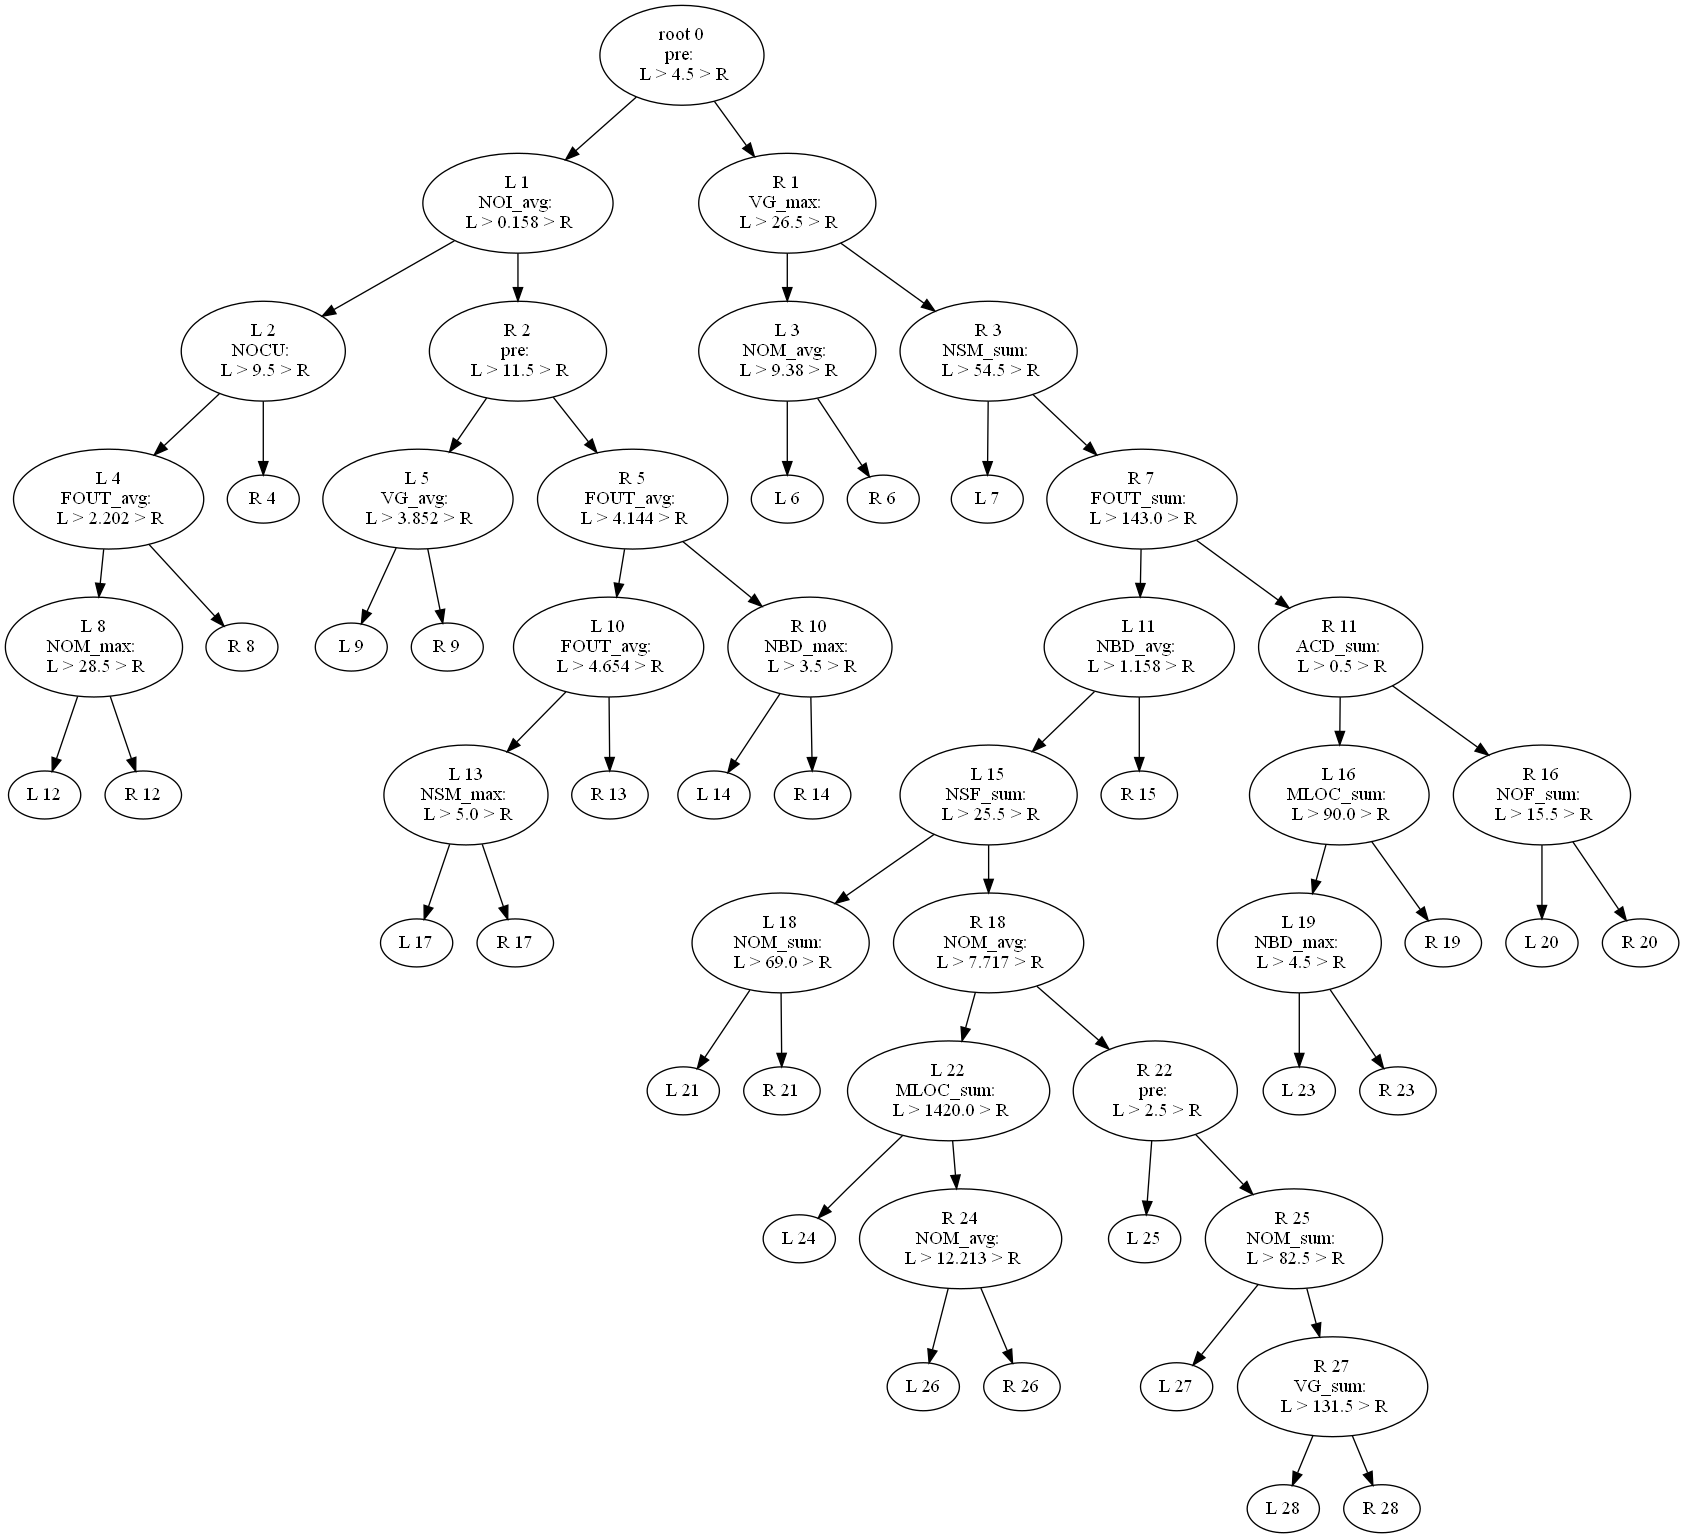
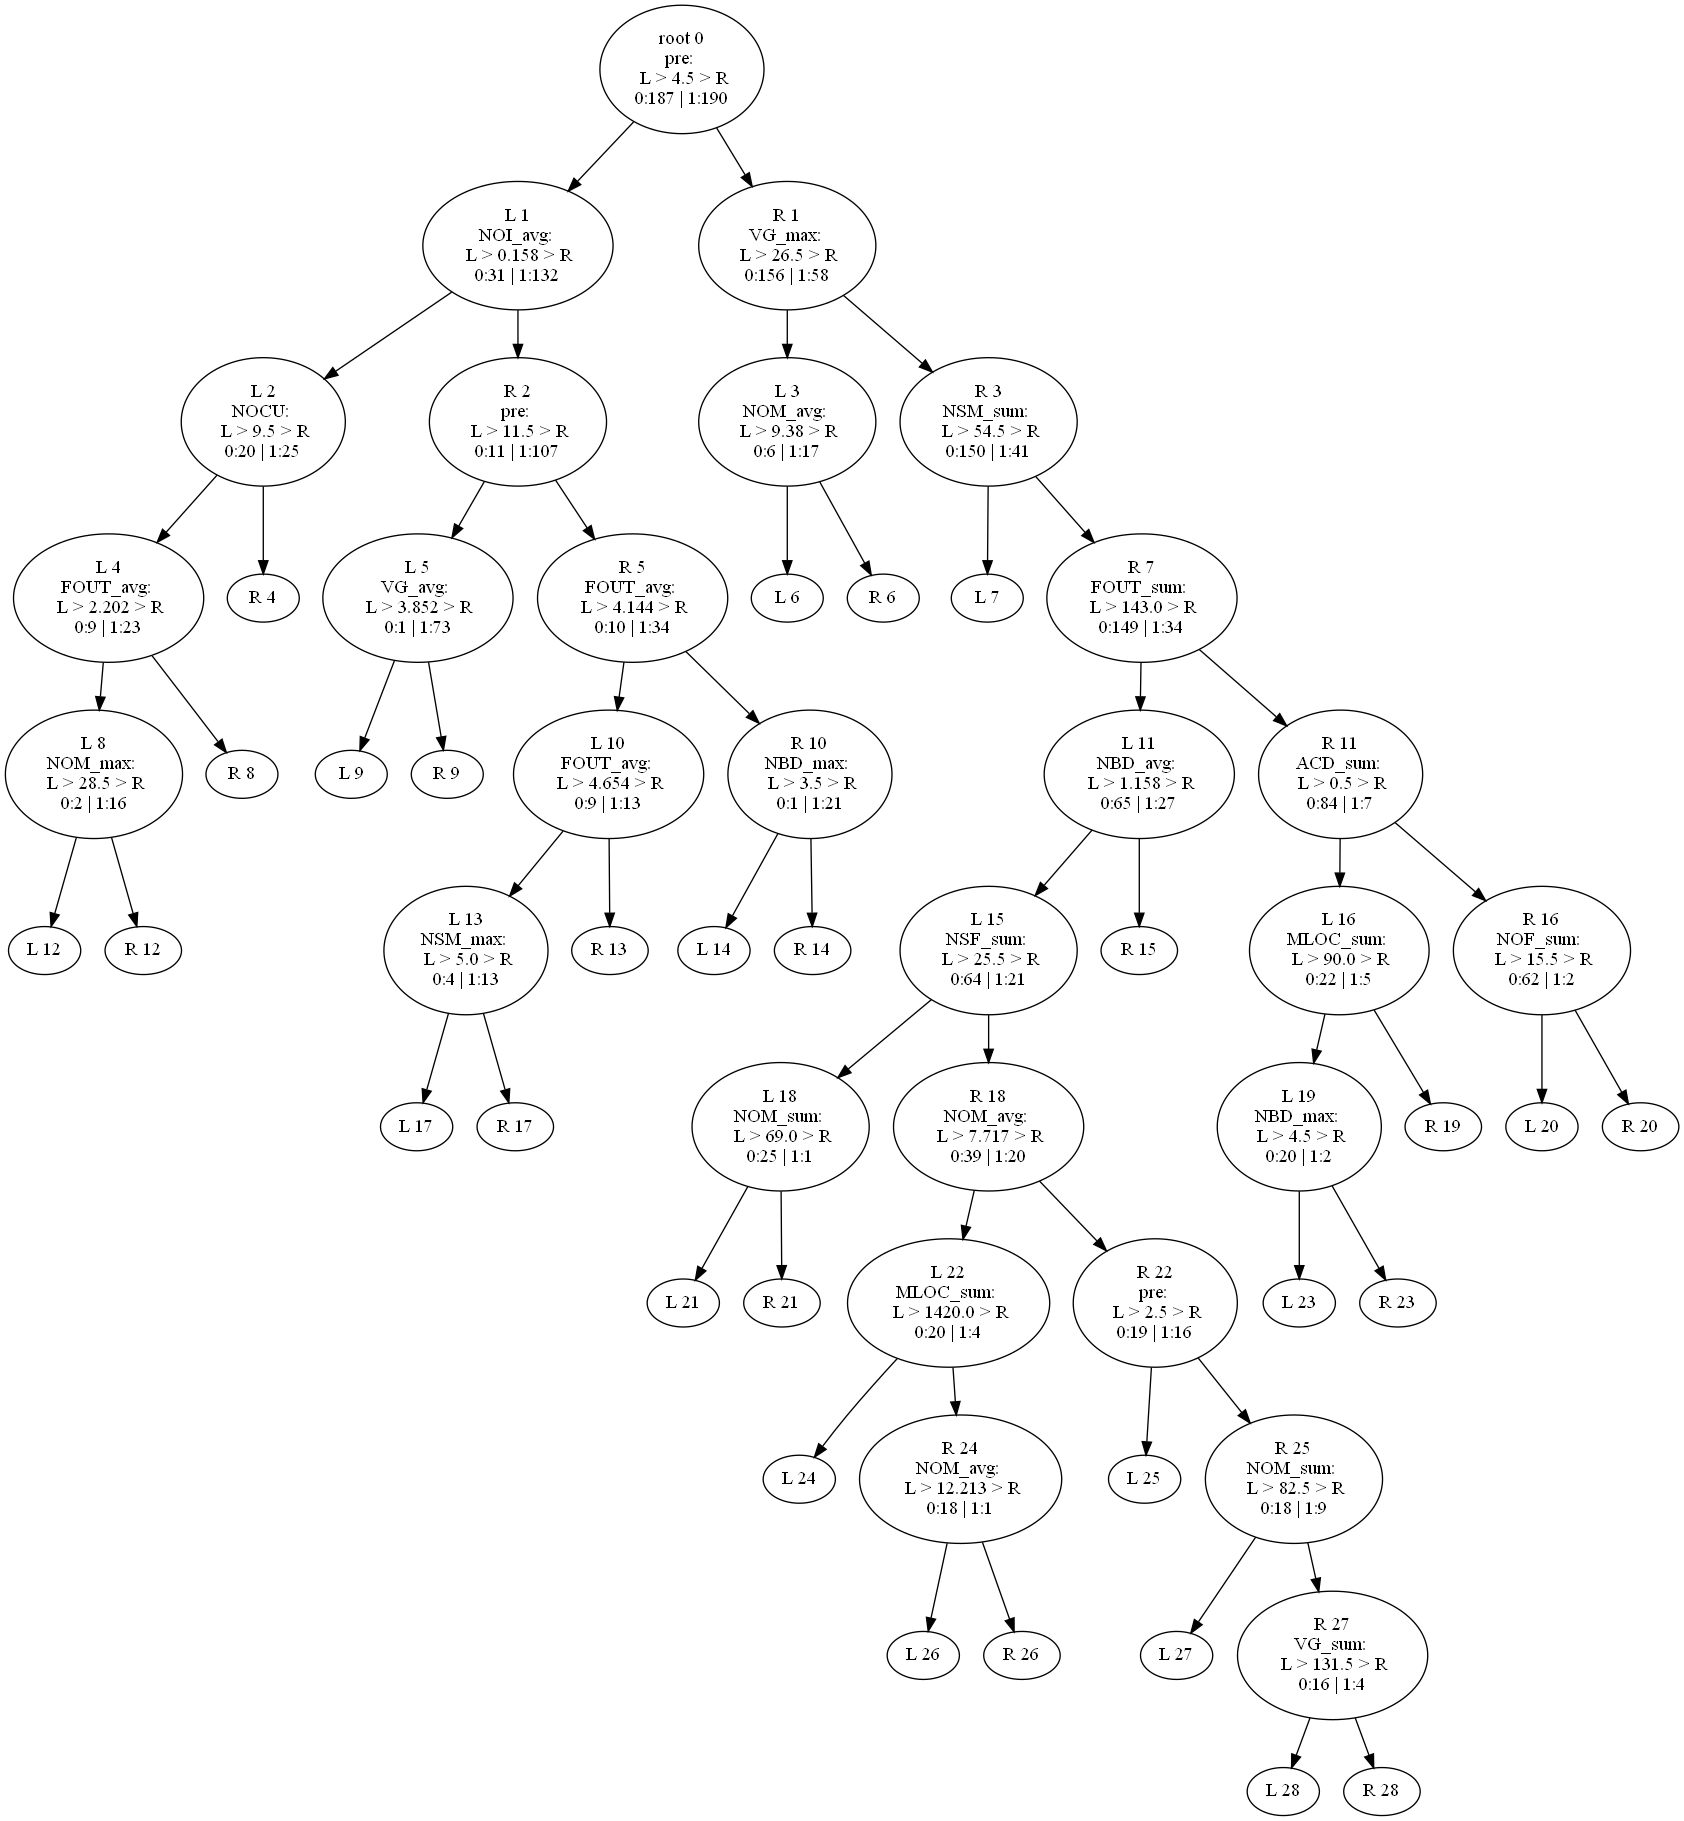
New project 1

diff --git a/Project_1/project1_decisiontree_noclass.py b/Project_1/project1_decisiontree_noclass.py
@@ -1,0 +1,285 @@
+"""
+Dal Col Giada 0093122
+Keller Dirk 4282264
+"""
+import random
+import pandas as pd
+import numpy as np
+from anytree import Node, RenderTree
+
+
+
+def tree_grow(x: np.ndarray, y: np.ndarray, nmin: int, minleaf: int, nfeat: int) -> RenderTree:
+    """
+    A tree expansion function that builds a single decision tree depending on the nmin, minleaf, nfeat
+    hyper-parameters. The  decision tree selects the feature that allows the best separation of the values and
+    splits the data set at the level of the features value. The best separation is measured by the split's impurity,
+    with gini-index as qualitative measure for a split's impurity. nmin and minleaf are used to stop growing the
+    tree early, to prevent overfitting and/or to save computation. The feature with the larges impurity reduction
+    will be expanded, the other candidate features will be discarded. The function will only perform a split, if it
+    meets the nmin and minleaf constrain. If there is no split that meets the nmin constraint, the node becomes a
+    leaf node. The function returns a tree object that is represents the best data-fitted hypothesis of the
+    hypothesis space. It can be further used for prediction.
+        # Arguments
+            :param x: ndarray. A data matrix (2-dimensional array) containing the feature values.
+            :param y: ndarray. A vector (1-dimensional array) of class labels. The class label must be binary, with
+                values coded as 0 and 1.
+            :param nmin: integer. The number of observations that a node must contain at least, for it to be allowed
+                to be split.
+            :param minleaf: integer. The minimum number of observations required for a leaf node; hence a split that
+                node with fewer than minleaf observations is not acceptable.
+            :param nfeat: integer. The parameter nfeat denotes the number of features that should be considered for 
+                each split; the number of features are drawn at random
+            :return: RenderTree. Tree object containing all linked nodes and their attributes to construct the full 
+                tree.
+    """
+
+    # Initialize a node list to store all current nodes, starting with the root node.
+    global tree_iter
+    tree_iter = 1
+    node_list = [Node(f'root {tree_iter - 1}', features=x, label=y, attribute_index=None, best_split=None)]
+    root = node_list[0]
+
+    while len(node_list) != 0:
+        # Extract the first node and remove it from the node list
+        current_node = node_list[0]
+        node_list.remove(current_node)
+
+        # Check if the current node is a leaf node; expand, otherwise node is just deleted.
+        if impurity(current_node.label) > 0:
+            # Check if nmin constraint is satisfied; expand, otherwise node is just deleted.
+            if current_node.features.shape[0] >= nmin:
+                # For each tree expansion initialize: the best feature index, split and impurity reduction score.
+                best_imp_reduc = 0
+                best_split, best_feat_idx = None, None
+                candidate_children = [None, None]
+
+                # Random forest random feature selection
+                rng_feat_idx = random.sample(range(current_node.features.shape[1]), k=nfeat)
+                sub_feat = current_node.features[:, rng_feat_idx].T
+
+                # Iterate through all selected features
+                    # First, check the impurity reduction of the parent node, then perform the splits, argmax over
+                    # the previous and current impurity reduction and save the value; select the feature with the
+                    # best impurity reduction and its candidate children
+                for idx, feat in enumerate(sub_feat):
+                    # Check that the number of unique to-be-splitted feature values is at least larger than 1.
+                    if len(np.unique(feat)) > 1:
+                        split_value = compute_best_split(feat, current_node.label)
+                        temp_Lchild, temp_Rchild = split(current_node, rng_feat_idx[idx], split_value, minleaf)
+
+                        # Impurity reduction is only computed if the split is acceptable
+                        if temp_Lchild is not None and temp_Rchild is not None:
+                            new_imp_reduc = impurity_reduction(current_node, temp_Lchild, temp_Rchild)
+
+                            # Incremental increase of the impurity reduction (no history);
+                            if best_imp_reduc < new_imp_reduc:
+                                best_imp_reduc = new_imp_reduc
+                                best_feat_idx, best_split = rng_feat_idx[idx], split_value
+                                candidate_children[0], candidate_children[1] = temp_Lchild, temp_Rchild
+
+                # Append only valid 'candidate children' to the node list nodelist (and the tree)
+                if candidate_children[0] is not None and candidate_children[1] is not None:
+                    candidate_children[0].parent, candidate_children[1].parent = current_node, current_node
+                    current_node.best_split, current_node.feat_index = best_split, best_feat_idx
+                    current_node.name = current_node.name + '\n' + str(best_feat_idx) + ': \n L > ' + str(round(best_split, 3)) + ' > R'+
+                    + '\n' + '0:' + str(len(current_node.label==0)) + ' | 1:' + str(len(current_node.label==1))
+                    node_list.extend([candidate_children[0], candidate_children[1]])
+
+                    tree_iter += 1
+    return RenderTree(root)
+
+def tree_pred(x: np.ndarray, tr: RenderTree) -> list:
+    """
+    A prediction function that uses a tree object to predict classes based on data. The function requires a tree
+    build on binary classification. The function returns a list of predicted labels.
+        # Arguments
+            :param x: ndarray. A data matrix (2-dimensional array) containing the feature values.
+            :param tr: RenderTree. A tree object containing linked nodes.
+            :return: list. List of predictions for all instances in x.
+    """
+
+    y_pred = []
+    # For each instance in the data set:
+    # split the data according to the best split of the selected feature in the trained tree object until a
+    # leaf node is reached. Then take the majority vote of a leaf node to decide on the predicted class label.
+    for idx, row in enumerate(x):
+        current_node = tr.node
+        while not current_node.is_leaf:
+            split_attribute = current_node.feat_index
+            if row[split_attribute] >= current_node.best_split:
+                current_node = current_node.children[0]
+            else:
+                current_node = current_node.children[1]
+
+        # Take the majority vote by sum and append it to the list
+        if sum(current_node.label) > 0.5 * len(current_node.label):
+            y_pred.append(1)
+        elif sum(current_node.label) == 0.5 * len(current_node.label):
+            y_pred.append(round(random.random(), 0))
+        else:
+            y_pred.append(0)
+    return y_pred
+
+def tree_grow_b(x: np.ndarray, y: np.ndarray, nmin: int, minleaf: int, nfeat: int, m: int) -> list:
+    """
+    A wrapper function for the tree_grow() function that implements bagging. The function bootstraps a new sample
+    from the data set (across all features) with the same sample size. Each time, a simple tree is grown and appended
+    to a list of trees. The function returns a list with m trees that can be used for prediction.
+        # Arguments
+            :param m: integer. The number of bootstrap samples drawn from the data set; also the number of trees
+                returned.
+            :return: list. A list of single trees.
+            See tree_grow() for the other parameters
+    """
+
+    tree_list = []
+    n = x.shape[0]
+    v = range(n)
+    for idx in range(m):
+        v_new = np.random.choice(v, n, replace=True)
+        X_new, Y_new = x[v_new, :], y[v_new]
+        tree_list.append(tree_grow(X_new, Y_new, nmin, minleaf, nfeat))
+    return tree_list
+
+def tree_pred_b(x: np.ndarray, tree_list: list) -> list:
+    """
+    A wrapper function for the tree_pred() function that implements bagging. The prediction function that uses a
+    tree object to predict classes based on data. The function requires a list of trees build on binary classification. The
+    function returns a list of predicted labels.
+        # Arguments
+            :param tree_list: list. Contains a list of tree objects
+            :return: list. List of predictions for all instances in x.
+            See tree_pred() for the other parameters
+    """
+
+    # For each tree: Predict the vector of labels for each instance in the data set.
+    y_pred_b, majority_y_pred_b = [], []
+    for idx, tree in enumerate(tree_list):
+        y_pred_b.append(tree_pred(x, tree))
+
+    # Across all predictions for the ith instance determine the majority vote across all tree predictions.
+    y = np.array(y_pred_b)
+    for i in range(y.shape[1]):
+        if sum(y[:, i]) > 0.5 * len(y[:, i]):
+            majority_y_pred_b.append(1)
+        elif sum(y[:, i]) == 0.5 * len(y[:, i]):
+            majority_y_pred_b.append(round(random.random(), 0))
+        else:
+            majority_y_pred_b.append(0)
+    return majority_y_pred_b
+
+def impurity(v):
+    """ Computes the impurity of a node: proportion class 1 elements/node total * proportion class 2 elements/node total """
+    return (len(v[v == 0]) / len(v)) * (len(v[v == 1]) / len(v))
+
+def compute_best_split(x, y):
+    """  Computes the best split value according to the numeric attribute x. It considers binary split of the form x[i]>=c 
+    where "c" is the average of two consecutive values of x in the sorted order. The choice of the best split is done accordingly
+    to the best impurity reduction using gini-index.
+        # Arguments:
+            :param x: ndarray. A vector (1-dimensional array) containing the feature values.
+            :param y: ndarray. A vector (1-dimensional array) of class labels. The class label must be binary, with
+                values coded as 0 and 1.
+            :return: float. Value of the best split for the considered attribute."""
+
+    x_sorted = np.sort(np.unique(x))
+    split_points = (x_sorted[0:-1] + x_sorted[1:]) / 2
+    imp_y = impurity(y)
+    reduc_imp = []
+    for i in range(len(split_points)):
+        left_child = y[x >= split_points[i]]
+        imp_left = impurity(left_child)
+        prop_left = len(left_child) / len(x)
+        right_child = y[x < split_points[i]]
+        imp_right = impurity(right_child)
+        prop_right = len(right_child) / len(x)
+        reduc_imp.append(imp_y - prop_left * imp_left - prop_right * imp_right)
+
+    index = reduc_imp.index(max(reduc_imp))
+    return split_points[index]
+
+def impurity_reduction(parent: Node, left_child: Node, right_child: Node) -> float:
+    """ Computes the impurity reduction of the split that generates Nodes "left_child" and "right_child" from the Node "parent" , based on gini-index. 
+            # Arguments:
+            :param parent: Node. The parent node.
+            :param left_child: Node. The left child.
+            :param right_child: Node. The right child.
+            :return: float. Value of the impurity reduction of the considered split.
+            """
+    return impurity(parent.label) - impurity(left_child.label) * len(left_child.features) / len(
+        parent.features) - impurity(right_child.label) * len(right_child.features) / len(parent.features)
+
+def split(parent: Node, feat_idx: int, pos, minleaf) -> tuple:  # add the contraint minleaf
+    """ Computes the split from the Node "parent" satisfying the constraint of minleaf (see "tree_grow"). The split is done according to the value
+    "pos" for the attribute "feat_idx": the left child contains values larger or equal than "pos".
+        # Arguments:
+                :param parent: Node. The parent node on which apply the split.
+                :param feat_idx: int. Index of the attribute considered for the split.
+                :param pos: float. Split value.
+                :param minleaf: int. See "tree_grow".
+                :return: tuple. Tuple of two elements of class Node, containinf left adn right children. If no split is performed returns (None,None)."""
+    if len(parent.features[parent.features[:, feat_idx] >= pos]) < minleaf or len(
+            parent.features[parent.features[:, feat_idx] < pos]) < minleaf:
+        return (None, None)
+    else:
+        Lchild = Node(f'L {tree_iter}', features=parent.features[parent.features[:, feat_idx] >= pos],
+                        label=parent.label[parent.features[:, feat_idx] >= pos])
+        Rchild = Node(f'R {tree_iter}', features=parent.features[parent.features[:, feat_idx] < pos],
+                        label=parent.label[parent.features[:, feat_idx] < pos])
+    return Lchild, Rchild
+
+
+
+from numpy import genfromtxt
+import numpy as np
+import pandas as pd
+import time
+
+# Basic test on credit data. Prediction should be perfect.
+
+credit_data = genfromtxt('C:\\Users\\giada\\Documents\\GitHub\\Data_Mining\\credit.txt', delimiter=',', skip_header=True)
+credit_x = credit_data[:,0:5]
+credit_y = credit_data[:,5]
+credit_tree = tree_grow(credit_x,credit_y,2,1,5)
+credit_pred = tree_pred(credit_x, credit_tree)
+pd.crosstab(credit_y,credit_pred)
+
+# Single tree on pima data
+
+pima_data = genfromtxt('C:\\Users\\giada\\Documents\\GitHub\\Data_Mining\\pima.txt', delimiter=',')
+pima_x = pima_data[:,0:8]
+pima_y = pima_data[:,8]
+pima_tree = tree_grow(pima_x,pima_y,20,5,8)
+pima_pred = tree_pred(pima_x,pima_tree)
+pd.crosstab(pima_y,pima_pred)
+
+# Function for testing single tree
+
+def single_test(x,y,nmin,minleaf,nfeat,n):
+  acc = np.zeros(n)
+  for i in range(0, n):
+    tr = tree_grow(x,y,nmin,minleaf,nfeat)
+    pred = tree_pred(x,tr)
+    acc[i] = sum(pred == y)/len(y)
+  return [np.mean(acc), np.std(acc)]
+
+# Function for testing bagging/random forest
+
+def rf_test(x,y,nmin,minleaf,nfeat,m,n):
+  acc = np.zeros(n)
+  for i in range(0,n):
+    tr_list = tree_grow_b(x,y,nmin,minleaf,nfeat,m)
+    pred = tree_pred_b(x,tr_list)
+    acc[i] = sum(pred == y)/len(y)
+  return [np.mean(acc), np.std(acc)]
+
+# Compute average and standard deviation of accuracy for single tree
+
+single_test(pima_x,pima_y,20,5,2,25)
+single_test(pima_x,pima_y,20,5,8,25)
+
+# Compute average and standard deviation of accuracy for bagging/random forest
+
+rf_test(pima_x,pima_y,20,5,2,25,25)
+rf_test(pima_x,pima_y,20,5,8,25,25)

diff --git a/Project_1/project1_decisiontree.py b/Project_1/project1_decisiontree.py
@@ -2,10 +2,13 @@
 Dal Col Giada 0093122
 Keller Dirk 4282264
 """
+import time
 import random
 import pandas as pd
 import numpy as np
 from anytree import Node, RenderTree
+from anytree.exporter import DotExporter
+from sklearn.metrics import confusion_matrix, accuracy_score, recall_score, precision_score
 
 class DecisionTree:
     def __init__(self, features: list):
@@ -73,8 +76,8 @@ class DecisionTree:
                         # Check that the number of unique to-be-splitted feature values is at least larger than 1.
                         if len(np.unique(feat)) > 1:
                             split_value = self.best_split(feat, current_node.label)
-                            temp_Lchild, temp_Rchild = self.split(current_node, rng_feat_idx[idx], split_value, minleaf)
-
+                            temp_Lchild, temp_Rchild = self.split(current_node, rng_feat_idx[idx], split_value, minleaf) # rng_feat_idx[idx] is the attribute we are splitting on
+ 
                             # Impurity reduction is only computed if the split is acceptable
                             if temp_Lchild is not None and temp_Rchild is not None:
                                 new_imp_reduc = self.impurity_reduction(current_node, temp_Lchild, temp_Rchild)
@@ -90,7 +93,7 @@ class DecisionTree:
                         candidate_children[0].parent, candidate_children[1].parent = current_node, current_node
                         current_node.best_split, current_node.feat_index = best_split, best_feat_idx
                         current_node.name = current_node.name + '\n' + self.feature_names[
-                            best_feat_idx] + ': \n L > ' + str(round(best_split, 3)) + ' > R'
+                            best_feat_idx] + ': \n L > ' + str(round(best_split, 3)) + ' > R' +'\n' + '0:' + str(len(current_node.label[current_node.label==0])) + ' | 1:' + str(len(current_node.label[current_node.label==1]))
                         node_list.extend([candidate_children[0], candidate_children[1]])
 
                         self.tree_iter += 1

diff --git a/Project_1/analysis_project1.py b/Project_1/analysis_project1.py
@@ -79,6 +79,8 @@ def main():
     # plotting
     DotExporter(tr.node).to_picture('NoBagNoBoot.png')
 
+
+
     """ (2) with random forest, no bagging (all features) """
     tic = time.time()
     tr2 = dt.tree_grow_b(train_x, train_y, nmin=15, minleaf=5, nfeat=41, m=100)
